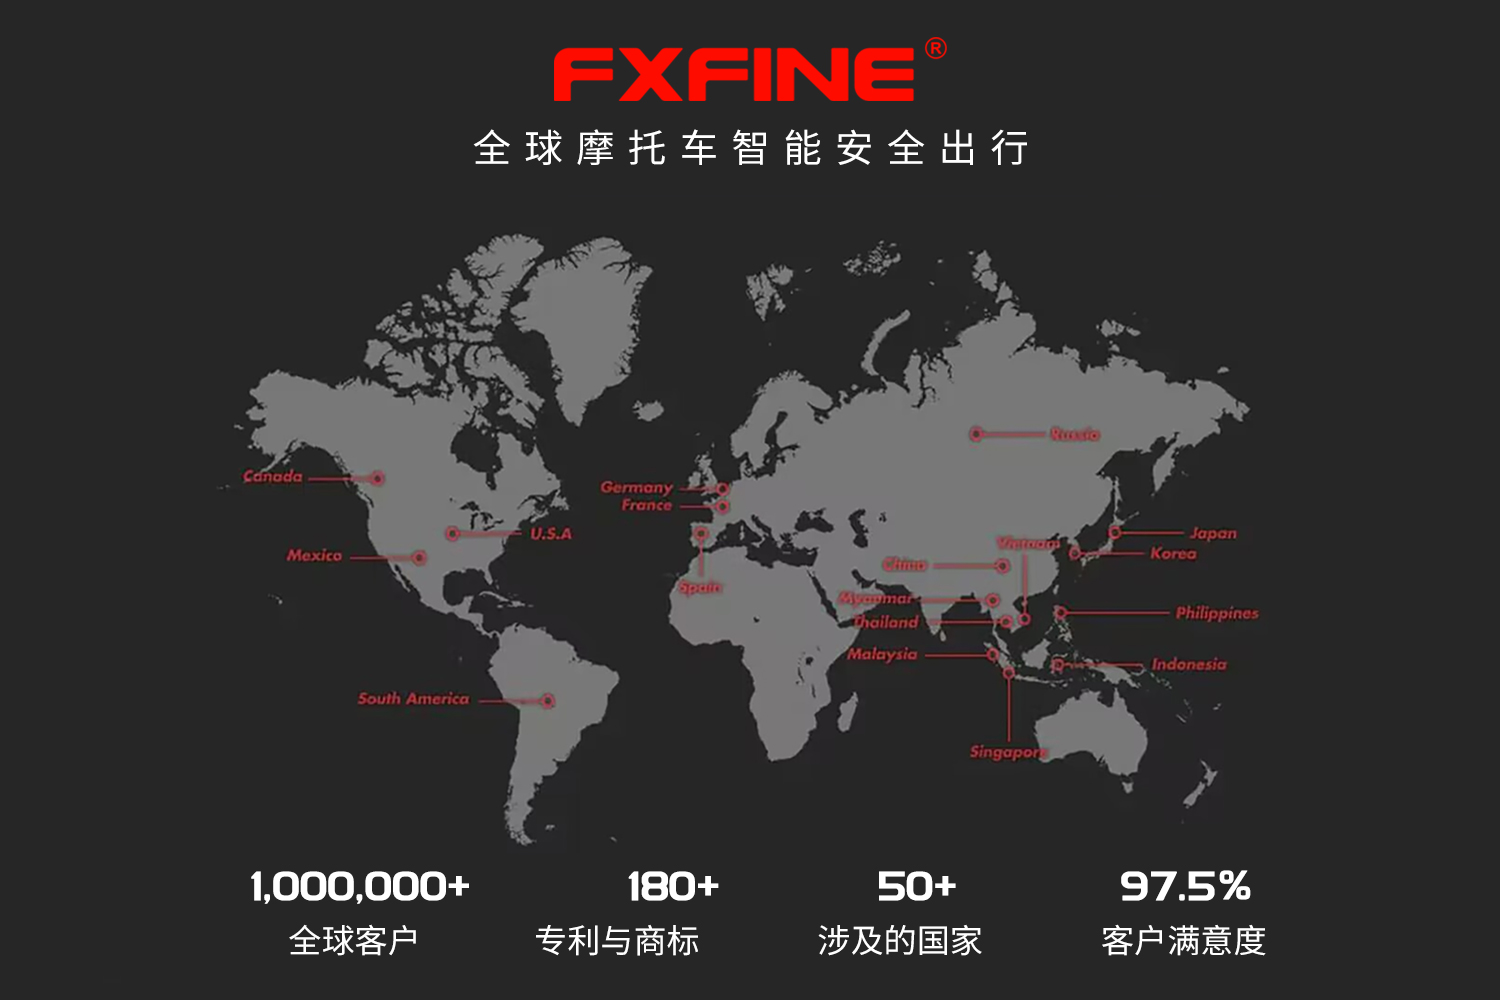
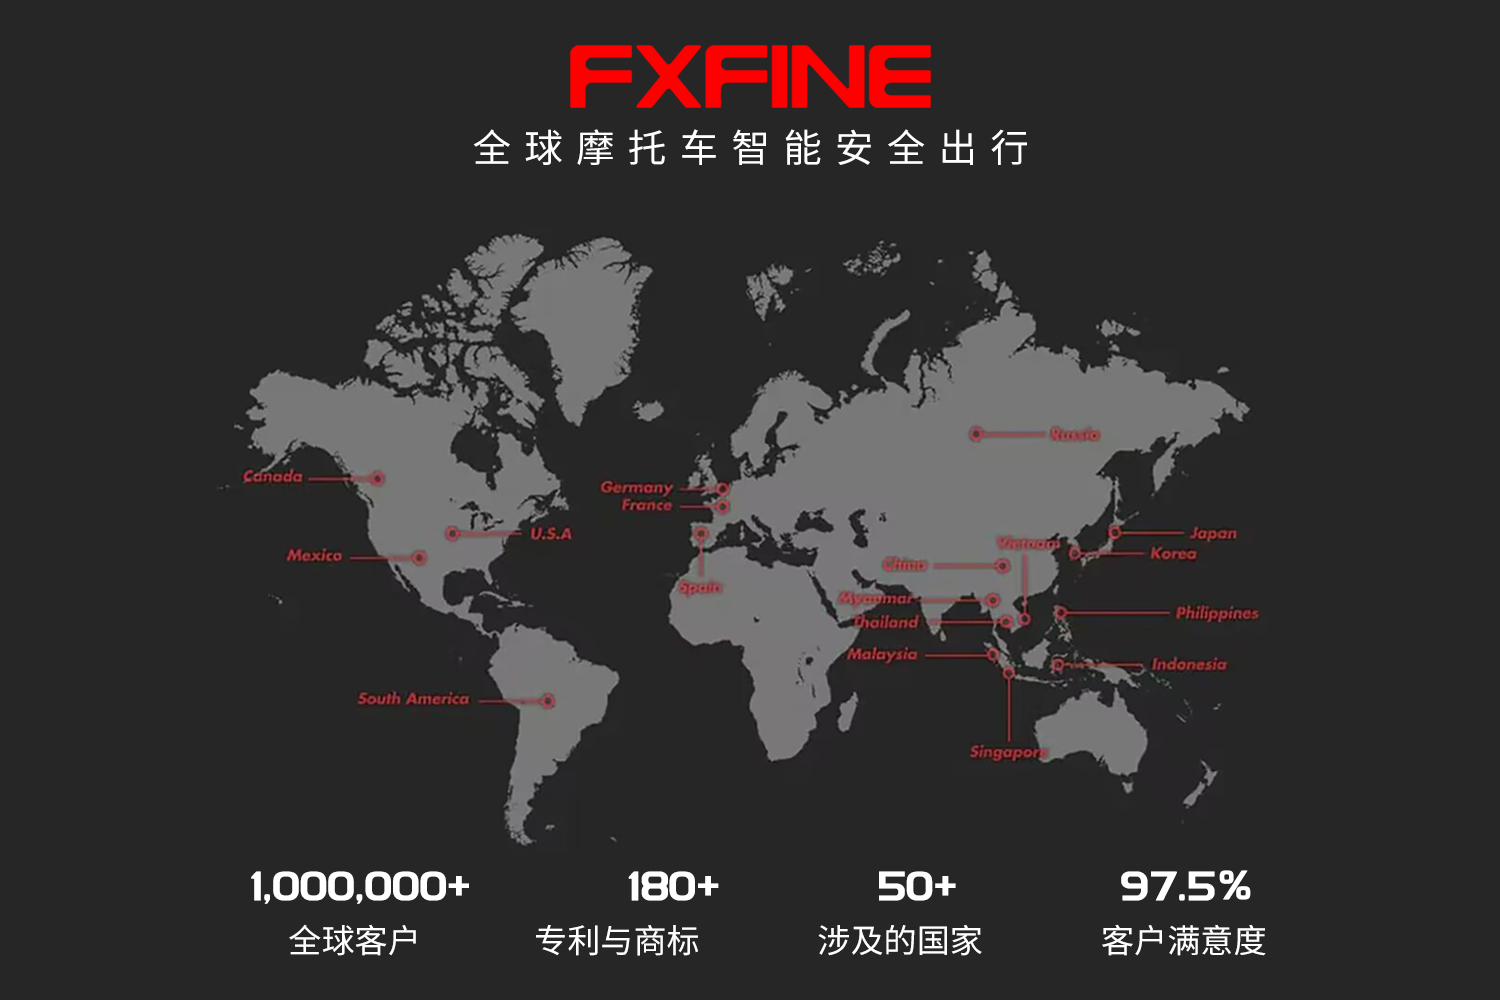
图片替换和细节优化, 增加经销商页面

Changed region(s): [[0.368, 0.031, 0.644, 0.124]]

diff --git a/pages/becomedealer.vue b/pages/becomedealer.vue
@@ -1,0 +1,98 @@
+<script lang="ts" setup>
+import dearler1 from "~/assets/images/dearler1.jpg"
+import dearler2 from "~/assets/images/dearler2.jpg"
+
+useHead({
+    title: 'FXFINE福克菲 成为经销商',
+    meta: [
+        { name: 'description', content: 'XFINE 福克菲 成为经销商' }
+    ]
+})
+
+const questions = [
+    {
+        q:'作为FXTUL经销商需要考虑哪些主要因素？',
+        a:'FXTUL经销商主要从市场拓展能力、分销销售路线建立、财务实力、线下店铺规模和位置、在线社交媒体影响力等方面进行考虑。'
+    },
+    {
+        q:'我需要保持最低库存才能成为FXTUL经销商吗？',
+        a:'是的，成为经销商需要有最低初始库存，具体数量可能会根据市场规模和您所在地区的不同而有所不同；FXTUL经销商销售代表在审核了您提供的位置后，将确定在该地区成为经销商所需的最低初始库存。'
+    },
+    {
+        q:'如果我成为经销商，我将拥有多大的销售区域/销售区域？',
+        a:'销售区域是根据个别情况确定的，受许多因素的强烈影响。其中一些因素包括市场规模、人口密度、市场人口统计、经销商位置和设施、经销商产品独家性以及经销商的常规库存水平。'
+    },
+    {
+        q:'FXTUL是否制造其他摩托车工具？',
+        a:'作为经销商，我可以销售吗？ FXTUL主要生产摩托车维修和诊断工具。为了满足客户的需求，我们也销售各种摩托车零件和工具。作为经销商，您也可以销售这些产品。如果您对其他与摩托车相关的产品有大量需求，您也可以联系我们的销售代表，我们将为您提供最具性价比的产品。'
+    },
+    {
+        q:'FXTUL能帮助我进行市场营销吗？',
+        a:'FXTUL为其经销商提供的市场营销支持超过任何其他摩托车维修工具制造商。作为FXTUL的经销商，您将获得许多市场营销服务，包括售前和售后支持。'
+    },
+    {
+        q:'FXTUL的制造设施在哪里？',
+        a:'FXTUL的制造设施总部位于中国深圳，同时在美国、德国、法国、波兰、英国、意大利、加拿大、捷克共和国、俄罗斯、日本、西班牙等许多国家都设有海外仓库，使全球各地的经销商更容易快速获取货物。'
+    },
+]
+</script>
+
+<template>
+    <main class="relative bg-[#2d2d30] pb-12">
+        <section class="mx-auto container">
+            <div class="container mx-auto md:px-6">
+                <div class="block">
+                    <img class="mx-auto py-4 w-full align-middle" :src="dearler1" alt="FXFINE成为经销商">
+                </div>
+                <h2 class="mb-10 text-3xl font-bold text-[#bd4343] text-center mt-4">成为经销商</h2>
+                <div class="text-[#b6b4b1] leading-7 my-4">
+                    <p class="mb-4">感谢您对成为FXFINE经销商的兴趣。作为一家摩托车工具品牌，FXFINE一直在寻找具有战略市场的强大经销商合作伙伴。</p>
+
+                    <p class="mb-4">
+                        这一部分包含了更多关于成为经销商的信息，以便您了解更多。在您查看了所有的信息后，如果您或您的公司想要与FXFINE建立合作关系，并愿意迎接挑战并收获回报，那么请花几分钟时间填写信息表格。提交表格后，经销商销售代表将与您联系，向您提供更多关于成为经销商的细节，因此请留意联系方式。
+                    </p>
+
+                    <p class="">感谢您对FXFINE的信任和支持！</p>
+
+                </div>
+                <h2 class="mb-10 text-3xl font-bold text-[#bd4343] text-center mt-4">为什么选择FXFINE</h2>
+                <div class="grid md:grid-cols-3 grid-cols-1 leading-7 gap-4">
+                    <div class="p-2">
+                        <h3 class="text-white">1.独特的技术</h3>
+                        <p class="text-[#b6b4b1]">
+                            FXTUL拥有一个设计和开发产品的工厂。凭借在摩托车维护方面的数十年经验，FXTUL的技术人员可以准确地理解摩托车车主的需求，并开发出真正满足客户需求的产品。无论你驾驶的是哈雷还是宝马摩托车，我们都有适合你的摩托车工具。
+                        </p>
+                    </div>
+                    <div class="p-2">
+                        <h3 class="text-white">2.完整的经销商系统</h3>
+                        <p class="text-[#b6b4b1]">
+                            我们是增长最快的制造商，并且拥有完整的经销商分销系统。我们致力于保护每一个经销商的权益，以确保实现双赢的合作。因此，当你选择我们时，你的利益也得到了保护。我们提供24小时的销售支持。我们的销售代表在销售前也会帮助你更快更好地了解产品和业务，帮助你取得更好的销售成果。
+                        </p>
+                    </div>
+                    <div class="p-2">
+                        <h3 class="text-white">3.持续的迭代创新</h3>
+                        <p class="text-[#b6b4b1]">
+                            FXTUL拥有一个训练有素的售后团队，专门处理客户的产品问题和收集客户对产品的反馈。对于产品建议，售后团队会及时反馈给产品设计师，然后进一步调整和优化产品，提供更好的摩托车修理产品工具。
+                        </p>
+                    </div>
+                </div>
+                <div class="block">
+                    <img class="mx-auto py-4 w-full align-middle" :src="dearler2" alt="FXFINE成为经销商">
+                </div>
+                <h2 class="mb-10 text-3xl font-bold text-white text-center mt-4">常见问题解答</h2>
+                <div class="grid md:grid-cols-2 grid-cols-1 leading-7 gap-4">
+                    <div class="p-2" v-for="(item, index) in questions" :key="index">
+                        <h3 class="text-[#bd4343]">{{ item.q }}</h3>
+                        <p class="text-[#b6b4b1]">
+                            {{ item.a }}
+                        </p>
+                    </div>
+                </div>
+            </div>
+        </section>
+    </main>
+</template>
+
+
+<style scoped></style>
+

diff --git a/pages/about.vue b/pages/about.vue
@@ -10,12 +10,12 @@ import whyus from "~/assets/images/whyus.jpg"
 const features = [
     { name: '目标', description: '成为摩托车智能与安全设备市场的中坚力量' },
     {
-        name: '愿景', description: 'FXFINE 始终保持革命性的创新和探索精神，凭借多年的摩托车智能与安全产品的研发经验，生产出优质的摩托车智能与安全产品。我们也尊重所有忠实用户的反馈需求。如果您对产品升级有任何建议，请随时联系我们。我们希望创造出更多满足用户需求的产品！'
+        name: '愿景', description: 'FXFINE福克菲 始终保持革命性的创新和探索精神，凭借多年的摩托车智能与安全产品的研发经验，生产出优质的摩托车智能与安全产品。我们也尊重所有忠实用户的反馈需求。如果您对产品升级有任何建议，请随时联系我们。我们希望创造出更多满足用户需求的产品！'
     },
     {
-        name: '任务', description: 'FXFINE 始终将客户放在第一位。我们承诺对所有产品提供三年保修。我们有严格的质量控制部门，确保每个产品在发货前都是完整且可用的。我们认真倾听客户的任何反馈，让每一位信任FXFINE的客户对我们的产品和服务有更好的感受！'
+        name: '任务', description: 'FXFINE福克菲 始终将客户放在第一位。我们承诺对所有产品提供三年保修。我们有严格的质量控制部门，确保每个产品在发货前都是完整且可用的。我们认真倾听客户的任何反馈，让每一位信任FXFINE福克菲 的客户对我们的产品和服务有更好的感受！'
     },
-    { name: '理念', description: 'FXFINE专注于摩托车智能与安全解决方案。秉承着创新创造价值、质量第一、用户体验第一的理念，努力为每一位摩托车爱好者提供更优质的智能产品和服务' },
+    { name: '理念', description: 'FXFINE福克菲 专注于摩托车智能与安全解决方案。秉承着创新创造价值、质量第一、用户体验第一的理念，努力为每一位摩托车爱好者提供更优质的智能产品和服务。' },
 ];
 
 const images = [
@@ -47,14 +47,17 @@ const selectFeature = (feature) => {
 
 
                             <p id="isPasted"><span>FXFINE
-                                    于2019年成立于中国深圳，一直专注于提供高品质的摩托车智能设备。我们立志成为摩托车智能与安全设备市场的中坚力量。我们的团队成员都有多年的汽车和摩托车智能与安全研发经验。凭借多年的行业经验，我们已成为摩托车爱好者和专业人士值得信赖的品牌。
+                                    FXFINE福克菲
+                                    于2015年成立于中国深圳，一直专注于提供高品质的摩托车智能设备。我们立志成为摩托车智能与安全设备市场的中坚力量。我们的团队成员都有多年的汽车和摩托车智能与安全研发经验。凭借多年的行业经验，我们已成为摩托车爱好者和专业人士值得信赖的品牌。
+
                                     &nbsp;</span></p>
-                            <p><span>我们的产品包括摩托车胎压监测、摩托车行车记录仪以及摩托车CarPlay。我们还在开发新的摩托车专用设备。未来还将推出更多有竞争力的产品。&nbsp;</span></p>
-                            <p><span>FXFINE 始终保证产品的稳定性和性能，坚持产品技术的持续优化和产品升级。确保增强产品的适用性，成为专业、得力的摩托车行车安全助手。 &nbsp;</span></p>
-                            <p><span>在
-                                    FXFINE，我们相信客户满意度至关重要，这就是为什么我们努力为客户提供最好的服务和支持。我们很自豪我们的客户对我们的产品和服务感到满意，并致力于在我们所做的一切中保持最高的质量和创新标准。
+                            <p><span>我们的产品包括摩托车胎压监测、摩托车行车记录仪以及摩托车CarPlay。我们还在开发新的摩托车专用设备。未来还将推出更多有竞争力的产品。
                                     &nbsp;</span></p>
-                            <p><span>我们拥有专业工厂，支持OEM和ODM等批发订单。如果您正在寻找可靠、高品质的设备来帮助您满足您的行车需求，那么 FXFINE 就是您的最佳选择。</span>
+                            <p><span>FXFINE福克菲 始终保证产品的稳定性和性能，坚持产品技术的持续优化和产品升级。确保增强产品的适用性，成为专业、得力的摩托车行车安全助手。 &nbsp;</span>
+                            </p>
+                            <p><span>在FXFINE福克菲，我们相信客户满意度至关重要，这就是为什么我们努力为客户提供最好的服务和支持。我们很自豪我们的客户对我们的产品和服务感到满意，并致力于在我们所做的一切中保持最高的质量和创新标准。
+                                    &nbsp;</span></p>
+                            <p><span>我们拥有专业工厂，支持OEM和ODM等批发订单。如果您正在寻找可靠、高品质的设备来帮助您满足您的行车需求，那么 FXFINE福克菲 就是您的最佳选择。</span>
                             </p>
                         </div>
                     </div>

diff --git a/components/ContactForm.vue b/components/ContactForm.vue
@@ -20,6 +20,17 @@
                     <div class="relative mb-3 py-4">
                         <input type="text"
                             class="peer text-white block min-h-[auto] w-full border border-white border-1 z-0 bg-transparent px-3 py-[0.32rem] leading-[1.6] outline-none transition-all duration-200 ease-linear focus:placeholder:opacity-100 peer-focus:text-primary data-[te-input-state-active]:placeholder:opacity-100 motion-reduce:transition-none dark:text-neutral-200 dark:placeholder:text-neutral-200 dark:peer-focus:text-primary [&:not([data-te-input-placeholder-active])]:placeholder:opacity-0"
+                            id="FormControlInputPhone" placeholder="Phone" v-model="inputPhone" />
+                        <label
+                            class="text-[#b6b4b1] pointer-events-none absolute left-3 mb-0 max-w-[90%] origin-[0_0] truncate pt-[0.37rem] leading-[1.6] text-neutral-500 transition-all duration-200 ease-out peer-focus:-translate-y-[0.9rem] peer-focus:top-0 peer-focus:scale-[0.8] peer-data-[te-input-state-active]:-translate-y-[0.9rem] peer-data-[te-input-state-active]:scale-[0.8] motion-reduce:transition-none dark:text-neutral-200 dark:peer-focus:text-primary"
+                            :class="{ '-translate-y-[0.9rem] scale-[0.8] block top-0': inputPhone, 'top-4': !inputPhone }">
+                            手机
+                        </label>
+                    </div>
+
+                    <div class="relative mb-3 py-4">
+                        <input type="text"
+                            class="peer text-white block min-h-[auto] w-full border border-white border-1 z-0 bg-transparent px-3 py-[0.32rem] leading-[1.6] outline-none transition-all duration-200 ease-linear focus:placeholder:opacity-100 peer-focus:text-primary data-[te-input-state-active]:placeholder:opacity-100 motion-reduce:transition-none dark:text-neutral-200 dark:placeholder:text-neutral-200 dark:peer-focus:text-primary [&:not([data-te-input-placeholder-active])]:placeholder:opacity-0"
                             id="FormControlInputEmail" placeholder="Email" v-model="inputEmail" />
                         <label
                             class="text-[#b6b4b1] pointer-events-none absolute left-3 mb-0 max-w-[90%] origin-[0_0] truncate pt-[0.37rem] leading-[1.6] text-neutral-500 transition-all duration-200 ease-out peer-focus:-translate-y-[0.9rem] peer-focus:top-0 peer-focus:scale-[0.8] peer-data-[te-input-state-active]:-translate-y-[0.9rem] peer-data-[te-input-state-active]:scale-[0.8] motion-reduce:transition-none dark:text-neutral-200 dark:peer-focus:text-primary"
@@ -54,6 +65,8 @@
 const inputName = ref('');
 const inputEmail = ref('');
 const inputMessage = ref('');
+const inputPhone = ref('');
+
 
 </script>
   

diff --git a/pages/contact.vue b/pages/contact.vue
@@ -22,7 +22,7 @@ import whyus from "~/assets/images/whyus.png"
                         <div class="text-[#b6b4b1] text-left">
                             <p class="leading-7">如果您的问题在常见问题解签中没有得到解答，您可以在线或通过以下任何一种方式联系我们。无论您有什么问题，我们都会为您提供最好的售前和售后服务!</p>
                             <ul class="list-disc my-5 pl-5 space-y-3">
-                                <li>邮箱: 872819119@qq.com (如有问题，24小时内回复)</li>
+                                <li>邮箱: fxfine@126.com (如有问题，24小时内回复)</li>
                                 <li>手机: 13760354925</li>
                                 <li>电话: 0755-27787225</li>
                                 <li>地址: 广东省深圳市宝安区福海街道桥头港华兴三区五栋五楼</li>

diff --git a/components/Footer.vue b/components/Footer.vue
@@ -39,7 +39,7 @@
                 <div class="flex flex-1 justify-start items-center gap-2 font-montserrat cursor-pointer">
                     <!-- <img src="@/assets/icons/copyrightSign.svg" alt="copyright sign" width="20" height="20"
                         class="rounded-full m-0" /> -->
-                    <p>©2012-2023偶然科技Autool 版权所有</p>
+                    <p>©2012-2023 福克菲FXFINE 版权所有</p>
                 </div>
                 <p class="font-montserrat cursor-pointer">粤ICP备20053092号</p>
             </div>
@@ -105,6 +105,7 @@ const footerLinks = [
             { name: "全球销售条款", link: "/" },
             { name: "隐私权政策", link: "/" },
             { name: "联系我们", link: "/contact" },
+            { name: "成为经销商", link: "/becomedealer" },
 
         ],
     }

diff --git a/nuxt.config.ts b/nuxt.config.ts
@@ -3,7 +3,7 @@
 
 export default defineNuxtConfig({
   devtools: { enabled: true },
-  modules: ["@nuxtjs/tailwindcss","@nuxt/content"],
+  modules: ["@nuxtjs/tailwindcss", "@nuxt/content"],
   tailwindcss: {
     cssPath: "~/assets/css/tailwind.css",
     configPath: "tailwind.config",
@@ -17,11 +17,11 @@ export default defineNuxtConfig({
   },
   app: {
     head: {
-      title: "Autool Nuxt3",
+      title: "FXFINE 福克菲官方网站",
       meta: [
         {
           name: "description",
-          content: "everything about Autool&nuxt3",
+          content: "Fxfine 福克菲官方网站",
         },
       ],
       link: [

diff --git a/components/JoinUs.vue b/components/JoinUs.vue
@@ -10,7 +10,7 @@
                 <li>全球诚招经销商</li>
             </ul>
             <button class="bg-[#8b2323] text-white p-2 mt-8">
-                加入我们
+                <a href="/becomedealer">成为经销商</a>
             </button>
         </div>
         <div class="py-24 px-28 bg-red-800 text-white h-full flex flex-col p-16 md:p-24 relative z-10 justify-center">

diff --git a/pages/news/[id].vue b/pages/news/[id].vue
@@ -1,6 +1,6 @@
 <template>
-    <section class="sm:pl-16 pl-8 top-0">
-        <div class="sm:px-16 px-8 sm:py-24 py-12 mx-auto">
+    <section class="sm:pl-16 pl-8 top-0 bg-[#2d2d30]">
+        <div class="sm:px-16 px-8 sm:pb-24 pb-12 pt-4 mx-auto container text-white">
             <ContentDoc>
                 <template #not-found>
                     <div>

diff --git a/pages/products/detection/[product].vue b/pages/products/detection/[product].vue
@@ -1,6 +1,6 @@
 <template>
     <section class="sm:pl-16 pl-8 top-0">
-        <div class="sm:px-16 px-8 sm:py-24 py-12 mx-auto">
+        <div class="sm:px-16 px-8 sm:py-24 py-12 mx-auto container">
             <!-- <ContentDoc path="/content/products/detection/AS502.md"/> -->
             <!-- <ContentDoc path="/readme" /> -->
             <ContentDoc>

diff --git a/content/news/test1.md b/content/news/test1.md
@@ -5,9 +5,38 @@ description: '一款采用全新检测方案，以实现高精度检测刹车油
 
 ---
 
-AUTOOL AS502汽车刹车油检测仪是一款采用全新检测方案，以实现高精度检测刹车油中的水分含量，确定是否需要更换刹车油的汽车检测工具。其适用范围广泛、使用方便、检测结果准确、轻便易携，支持在任何时间、任何地点进行检测，帮助车主或维修技师及时发现和解决刹车油存在的质量问题，从而保障车辆行驶的安全性和可靠性。
+<img style="display: block; margin-left: auto; margin-right: auto; width: 100%; margin-bottom: 1em;" src="/images/dearler1.jpg" alt="FXFINE成为经销商">
 
-![产品图片](https://www.cnautool.com/wp-content/uploads/2023/06/1-头图-AS502-CN.jpg)
+<h1 style="color: red; text-align: center; font-size: 2em; margin-bottom: 1em;">成为经销商</h1>
+<p style="line-height: 2; margin-bottom: 1em;">
+感谢您对成为FXFINE经销商的兴趣。作为一家摩托车工具品牌，FXFINE一直在寻找具有战略市场的强大经销商合作伙伴。
+
+这一部分包含了更多关于成为经销商的信息，以便您了解更多。在您查看了所有的信息后，如果您或您的公司想要与FXFINE建立合作关系，并愿意迎接挑战并收获回报，那么请花几分钟时间填写信息表格。提交表格后，经销商销售代表将与您联系，向您提供更多关于成为经销商的细节，因此请留意联系方式。
+
+感谢您对FXFINE的信任和支持！
+</p>
+
+<h1 style="color: red; text-align: center; font-size: 2em; margin-bottom: 1em;">为什么选择FXFINE？</h1>
+<p style="line-height: 2; margin-bottom: 1em;">
+
+<div style="line-height: 2; margin-bottom: 1em;">
+<ol>
+  <li>
+    <h1>1.独特的技术</h1>
+    <p>FXTUL拥有一个设计和开发产品的工厂。凭借在摩托车维护方面的数十年经验，FXTUL的技术人员可以准确地理解摩托车车主的需求，并开发出真正满足客户需求的产品。无论你驾驶的是哈雷还是宝马摩托车，我们都有适合你的摩托车工具。</p>
+  </li>
+  <li>
+    <h1>2.完整的经销商系统</h1>
+    <p>我们是增长最快的制造商，并且拥有完整的经销商分销系统。我们致力于保护每一个经销商的权益，以确保实现双赢的合作。因此，当你选择我们时，你的利益也得到了保护。我们提供24小时的销售支持。我们的销售代表在销售前也会帮助你更快更好地了解产品和业务，帮助你取得更好的销售成果。</p>
+  </li>
+  <li>
+    <h1>3.持续的迭代创新</h1>
+    <p>FXTUL拥有一个训练有素的售后团队，专门处理客户的产品问题和收集客户对产品的反馈。对于产品建议，售后团队会及时反馈给产品设计师，然后进一步调整和优化产品，提供更好的摩托车修理产品工具。</p>
+  </li>
+</ol>
+</div>
+
+<img style="display: block; margin-left: auto; margin-right: auto; width: 100%; margin-bottom: 1em;" src="/images/dearler2.jpg" alt="FXFINE成为经销商">
 
 #### 产品特点
 

diff --git a/content/products/detection/AS502.md b/content/products/detection/AS502.md
@@ -7,7 +7,8 @@ description: '一款采用全新检测方案，以实现高精度检测刹车油
 
 AUTOOL AS502汽车刹车油检测仪是一款采用全新检测方案，以实现高精度检测刹车油中的水分含量，确定是否需要更换刹车油的汽车检测工具。其适用范围广泛、使用方便、检测结果准确、轻便易携，支持在任何时间、任何地点进行检测，帮助车主或维修技师及时发现和解决刹车油存在的质量问题，从而保障车辆行驶的安全性和可靠性。
 
-![产品图片](https://www.cnautool.com/wp-content/uploads/2023/06/1-头图-AS502-CN.jpg)
+<!-- ![产品图片](https://www.cnautool.com/wp-content/uploads/2023/06/1-头图-AS502-CN.jpg) -->
+<img style="display: block; margin-left: auto; margin-right: auto; width: 100%;" src="https://www.cnautool.com/wp-content/uploads/2023/06/1-头图-AS502-CN.jpg" alt="Optional title">
 
 #### 产品特点
 

diff --git a/notes.md b/notes.md
@@ -19,3 +19,4 @@
 * 卡片底色 #353538
 * 文本颜色 #b6b4b1
 * 红色按钮背景色 #8b2323
+* 成为经销红色颜色号 #bd4343
